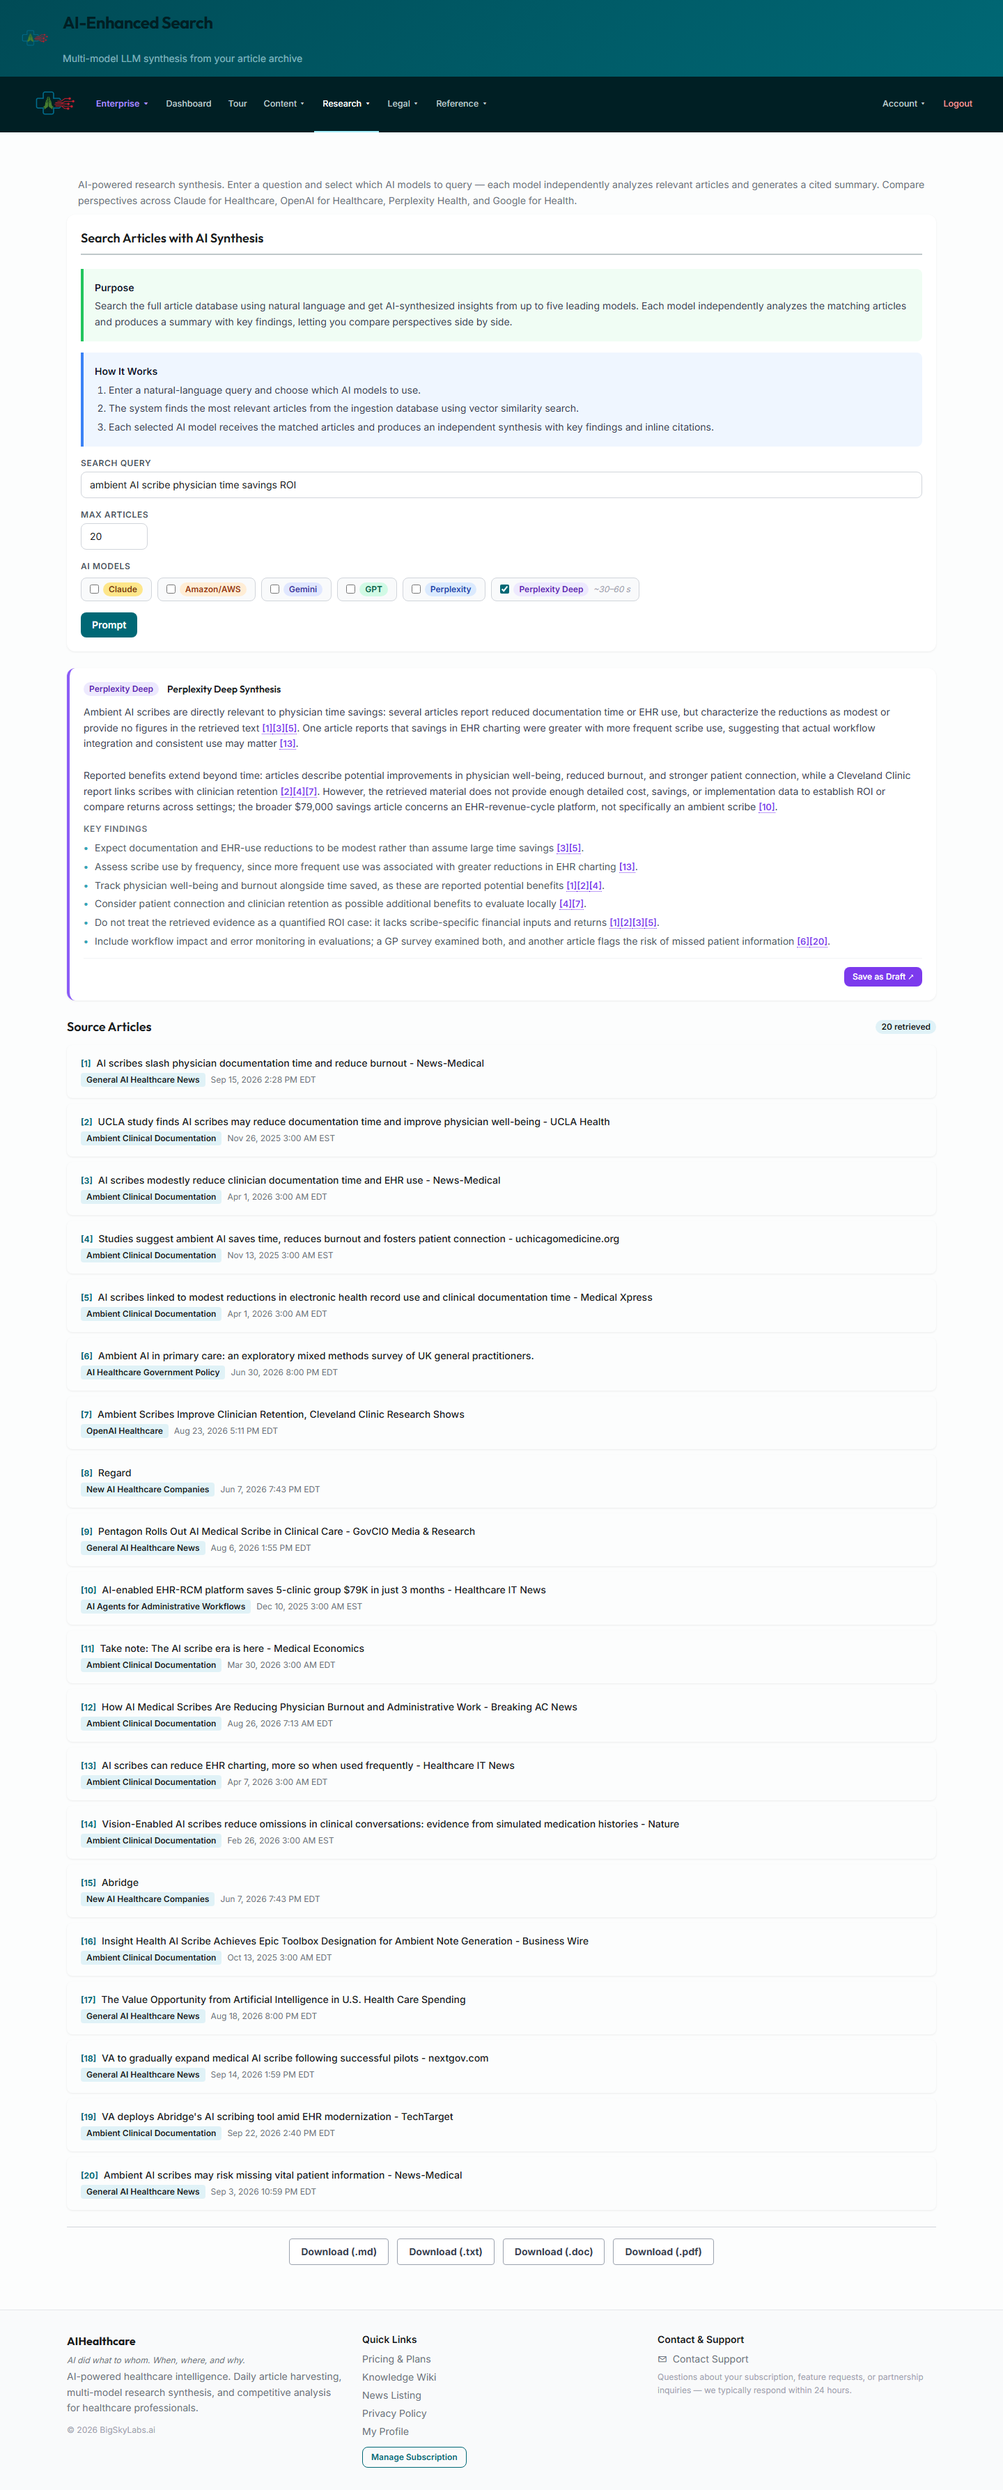
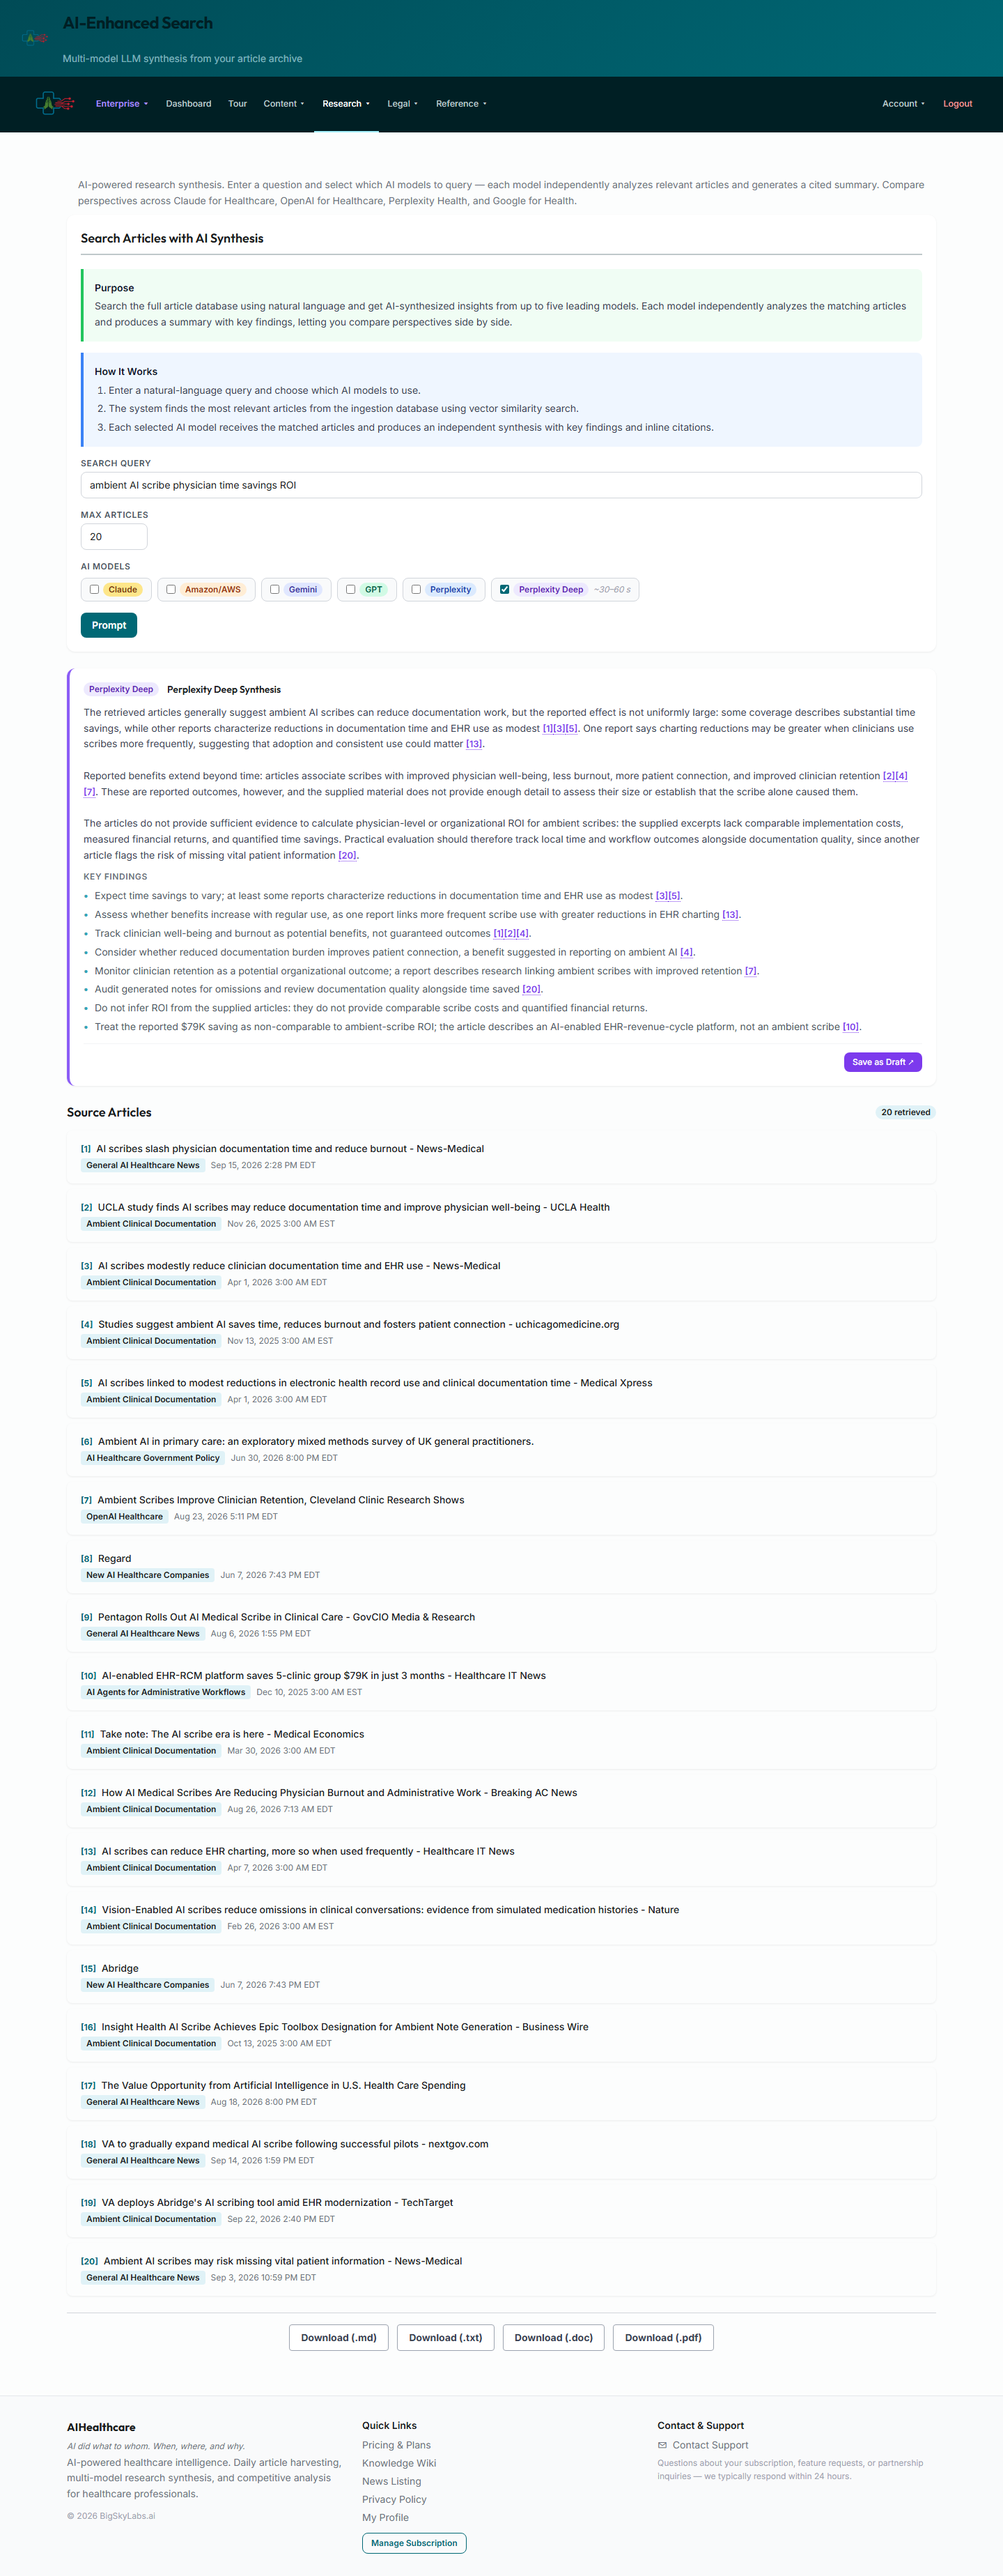
SP-1: fix directory screenshot — sector filter 'AI Documentation' → 'Clinical Documentation'; regenerate with 99 cards

diff --git a/e2e/capture-ambient-ai-scribe.js b/e2e/capture-ambient-ai-scribe.js
@@ -40,11 +40,11 @@ const SHOTS = [
     },
     {
         label:   'Company directory — ambient AI vendors',
-        url:     `${BASE_URL}/directory?sector=AI+Documentation`,
+        url:     `${BASE_URL}/directory?sector=Clinical+Documentation`,
         file:    path.join(SHOTS_DIR, '2026-10-04-ambient-ai-scribe-directory.png'),
         timeout: 30_000,
         check:   async (page) => {
-            const n = await page.locator('.company-card, [class*="company"], article').count();
+            const n = await page.locator('a[href*="/directory/"]').count();
             console.log(`  Company cards visible: ${n}`);
         },
     },
